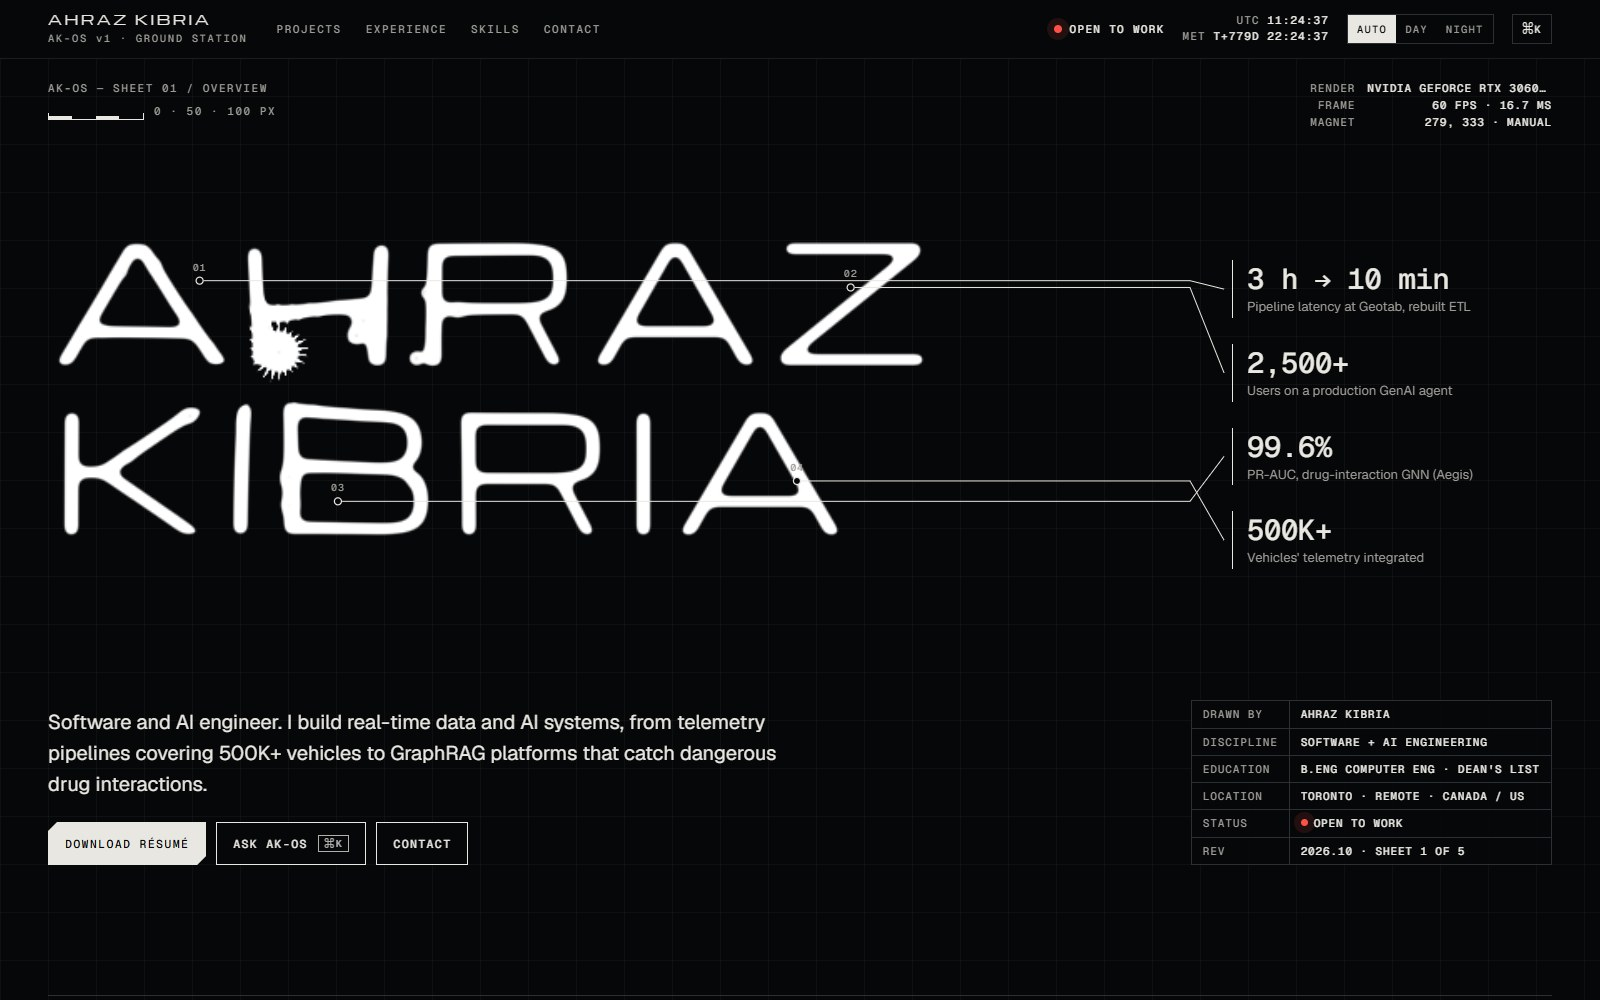
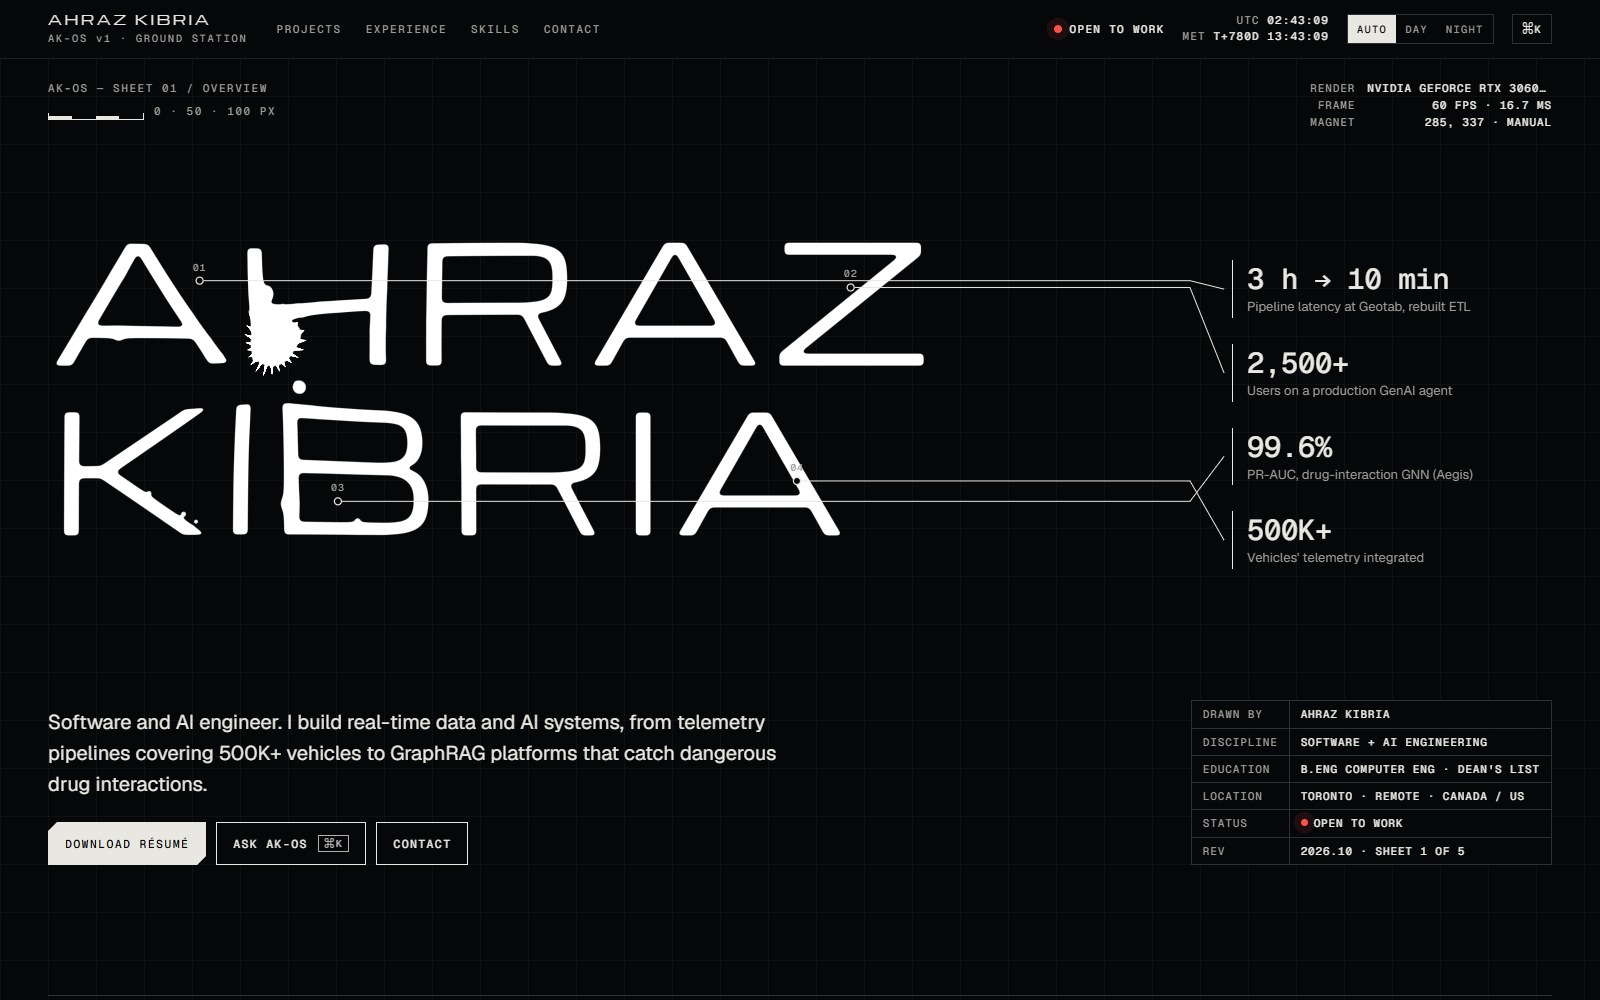
Sharp hero name on desktop too
- Tighter blur and up to 2x texture everywhere, so the letters keep crisp corners
- The hero renders at full resolution and steps down only if frames run slow
- README screenshots refreshed

diff --git a/site/js/liquid.js b/site/js/liquid.js
@@ -36,11 +36,11 @@ function Liquid(cv,want){const gl=cv.getContext('webgl',{premultipliedAlpha:true
     setText(c){gl.bindTexture(gl.TEXTURE_2D,tex);gl.texImage2D(gl.TEXTURE_2D,0,gl.RGBA,gl.RGBA,gl.UNSIGNED_BYTE,c);},
     render(){gl.useProgram(pr);gl.uniform2f(U.uRes,cv.width,cv.height);gl.uniform1f(U.uPx,px);gl.uniform4fv(U.uB,B);gl.uniform1i(U.uN,S.n);gl.uniform4f(U.uTR,S.tr[0],S.tr[1],S.tr[2],S.tr[3]);gl.uniform1f(U.uTA,S.ta);gl.uniform3f(U.uMag,S.mag[0],S.mag[1],S.mag[2]);gl.uniform1f(U.uPull,S.pull);gl.uniform1f(U.uMetal,S.metal);gl.uniform1f(U.uDepth,S.depth);gl.uniform3f(U.uCol,S.col[0],S.col[1],S.col[2]);gl.uniform1f(U.uLX,S.lx);gl.uniform1f(U.uTime,S.time);gl.uniform1f(U.uTh,S.th);gl.clearColor(0,0,0,0);gl.clear(gl.COLOR_BUFFER_BIT);gl.drawArrays(gl.TRIANGLES,0,3);}};}
 function gpuName(gl){try{const e=gl.getExtension('WEBGL_debug_renderer_info');let s=e?gl.getParameter(e.UNMASKED_RENDERER_WEBGL):gl.getParameter(gl.RENDERER);const m=/ANGLE \((.*)\)/.exec(s);if(m){const p=m[1].split(', ');s=p[1]||p[0];}s=String(s).replace(/\s*(Direct3D|vs_\d|ps_\d|OpenGL|Metal|\(0x).*$/i,'').replace(/\((TM|R)\)/gi,'').trim();return(s||'WEBGL').toUpperCase();}catch(e){return 'WEBGL';}}
-/* touch screens get a sharper, higher-resolution name: less blur means crisp corners instead of bubbly ones */
+/* a tight blur keeps crisp letter corners instead of bubbly ones; touch screens get a gentler magnet */
 const TOUCH=matchMedia('(hover:none)').matches;
-function nameTex(h1){const r=h1.getBoundingClientRect(),cs=getComputedStyle(h1),fs=parseFloat(cs.fontSize),ls=parseFloat(cs.letterSpacing)||0,pad=Math.round(fs*.4),tq=Math.min(TOUCH?2:1.5,devicePixelRatio||1);
+function nameTex(h1){const r=h1.getBoundingClientRect(),cs=getComputedStyle(h1),fs=parseFloat(cs.fontSize),ls=parseFloat(cs.letterSpacing)||0,pad=Math.round(fs*.4),tq=Math.min(2,devicePixelRatio||1);
   const W=Math.ceil((r.width+2*pad)*tq),H=Math.ceil((r.height+2*pad)*tq),c=document.createElement('canvas');c.width=W;c.height=H;const x=c.getContext('2d',{willReadFrequently:true});
-  const OFF=6000;x.setTransform(tq,0,0,tq,0,0);x.font=`${cs.fontWeight} ${fs}px ${cs.fontFamily}`;x.textBaseline='middle';x.fillStyle='#fff';x.shadowColor='#fff';x.shadowBlur=(TOUCH?Math.max(1.5,fs*.028):Math.max(3,fs*.055))*tq;x.shadowOffsetX=OFF*tq;
+  const OFF=6000;x.setTransform(tq,0,0,tq,0,0);x.font=`${cs.fontWeight} ${fs}px ${cs.fontFamily}`;x.textBaseline='middle';x.fillStyle='#fff';x.shadowColor='#fff';x.shadowBlur=Math.max(1.5,fs*.028)*tq;x.shadowOffsetX=OFF*tq;
   for(const sp of $$('.ln',h1)){const lr=sp.getBoundingClientRect();let cx=lr.left-r.left+pad-OFF;const cy=lr.top-r.top+pad+lr.height*.52;for(const ch of sp.textContent){x.fillText(ch,cx,cy);cx+=x.measureText(ch).width+ls;}}
   const d=x.getImageData(0,0,W,H).data,pts=[];for(let i=0;i<9000&&pts.length<420;i++){const px=Math.random()*W|0,py=Math.random()*H|0;if(d[(py*W+px)*4+3]>215)pts.push([px/W,py/H]);}
   return{c,rect:[r.left-pad,r.top-pad,r.width+2*pad,r.height+2*pad],pts};}
@@ -48,12 +48,12 @@ function nameTex(h1){const r=h1.getBoundingClientRect(),cs=getComputedStyle(h1),
 /* ---------- hero: magnetic liquid name ---------- */
 const HERO={};
 function heroInit(){const sec=$('#top'),cv=$('#heroGL'),h1=$('#name');const L=Liquid(cv,32);if(!L){root.classList.add('nogl');return false;}
-  Object.assign(HERO,{L,sec,cv,h1,drops:[],mag:{x:-200,y:-200,s:0},ptr:{on:false,x:0,y:0,t:0},pulse:0,vis:true,ready:false,textOn:false,prev:0,fps:[],ro:0});
+  Object.assign(HERO,{L,sec,cv,h1,drops:[],mag:{x:-200,y:-200,s:0},ptr:{on:false,x:0,y:0,t:0},pulse:0,vis:true,ready:false,textOn:false,prev:0,fps:[],ro:0,q:1,slow:0});
   const pos=e=>{const r=cv.getBoundingClientRect();HERO.ptr={on:true,x:e.clientX-r.left,y:e.clientY-r.top,t:performance.now()};};
   sec.addEventListener('pointermove',e=>{pos(e);$('#hint').classList.add('gone');});sec.addEventListener('pointerleave',()=>{HERO.ptr.on=false;});sec.addEventListener('pointerdown',e=>{pos(e);HERO.pulse=1;});
   regVis(sec,HERO);new ResizeObserver(()=>heroLayout()).observe(sec);FRAMERS.push(heroFrame);
   $('#rGpu').textContent=gpuName(L.gl);if(matchMedia('(pointer:coarse)').matches)$('#hintT').textContent='TOUCH AND DRAG. THE NAME IS MAGNETIC.';return true;}
-async function heroLayout(){if(!HERO.L)return;await fontsReady;await document.fonts.ready;const{L,cv,h1}=HERO;if(TOUCH)L.size(1,2);else L.size(.6,1.05);const t=nameTex(h1),cr=cv.getBoundingClientRect();L.setText(t.c);
+async function heroLayout(){if(!HERO.L)return;await fontsReady;await document.fonts.ready;const{L,cv,h1}=HERO;L.size(HERO.q,2);const t=nameTex(h1),cr=cv.getBoundingClientRect();L.setText(t.c);
   const R=HERO.rect=[t.rect[0]-cr.left,t.rect[1]-cr.top,t.rect[2],t.rect[3]];
   /* scale the magnet to the name, so a phone-width name isn't swallowed by every droplet at once */
   const k=HERO.k=clamp(R[2]/860,.42,1);
@@ -67,7 +67,9 @@ function heroFrame(t,force){const H=HERO;if(!H.ready||(!H.vis&&!force))return;co
   for(const d of H.drops){let ax=(d.hx-d.x)*.02,ay=(d.hy-d.y)*.02;const dx=m.x-d.x,dy=m.y-d.y,dd=Math.hypot(dx,dy)+.01;if(dd<PR&&S>.05){const f=1.2*S*SET.pull*(1-dd/PR);ax+=dx/dd*f;ay+=dy/dd*f;}if(H.pulse>.4){ax+=(Math.random()-.5)*H.pulse*2.5;ay+=(Math.random()-.5)*H.pulse*2.5;}
     d.vx=(d.vx+ax)*.86;d.vy=(d.vy+ay)*.86;d.x+=d.vx;d.y+=d.vy;const away=clamp(Math.hypot(d.x-d.hx,d.y-d.hy)/26);if(away>.02&&n<L.MAXB){B[n*4]=d.x;B[n*4+1]=d.y;B[n*4+2]=d.r*away;B[n*4+3]=0;n++;}}
   const[dep,met]=liqMat();Object.assign(L.S,{n,tr:R,ta:H.textOn?1:0,mag:[m.x,m.y,S],pull:18*SET.pull,metal:met,depth:dep,col:liqRGB(),lx:-.45+Math.sin(t*.00023)*.14,time:t*.001,th:1});L.render();
-  H.fps.push(dt);if(H.fps.length>30)H.fps.shift();if(now-H.ro>500){H.ro=now;const avg=H.fps.reduce((a,b)=>a+b,0)/H.fps.length;$('#rFps').textContent=`${Math.round(1000/avg)} FPS · ${avg.toFixed(1)} MS`;$('#rMag').textContent=S>.05?`${Math.round(m.x)}, ${Math.round(m.y)} · ${H.ptr.on?'MANUAL':'AUTO'}`:'STANDBY';}}
+  H.fps.push(dt);if(H.fps.length>30)H.fps.shift();if(now-H.ro>500){H.ro=now;const avg=H.fps.reduce((a,b)=>a+b,0)/H.fps.length;$('#rFps').textContent=`${Math.round(1000/avg)} FPS · ${avg.toFixed(1)} MS`;$('#rMag').textContent=S>.05?`${Math.round(m.x)}, ${Math.round(m.y)} · ${H.ptr.on?'MANUAL':'AUTO'}`:'STANDBY';
+    /* full resolution keeps the name sharp; step down only if two half-second windows in a row run under ~45 fps */
+    if(H.q>.6&&H.fps.length>=30&&avg>22){if(++H.slow>=2){H.q=Math.max(.6,+(H.q-.2).toFixed(1));H.slow=0;H.fps.length=0;L.size(H.q,2);}}else H.slow=0;}}
 function drawLeaders(anim){const svg=$('#leaders'),sec=$('#top');if(!svg)return;if(innerWidth<900){svg.innerHTML='';return;}const sr=sec.getBoundingClientRect(),lines=$$('#name .ln');if(!lines.length)return;
   const AN=[[0,.17,.32],[0,.9,.36],[1,.36,.62],[1,.93,.5]],cos=$$('.co',sec);let s='';
   cos.forEach((co,i)=>{const[li,fx,fy]=AN[i],lr=lines[li].getBoundingClientRect(),cr=co.getBoundingClientRect();const ax=lr.left-sr.left+fx*lr.width,ay=lr.top-sr.top+fy*lr.height,bx=cr.left-sr.left-8,by=cr.top-sr.top+cr.height/2,ex=Math.max(ax+20,bx-34);
